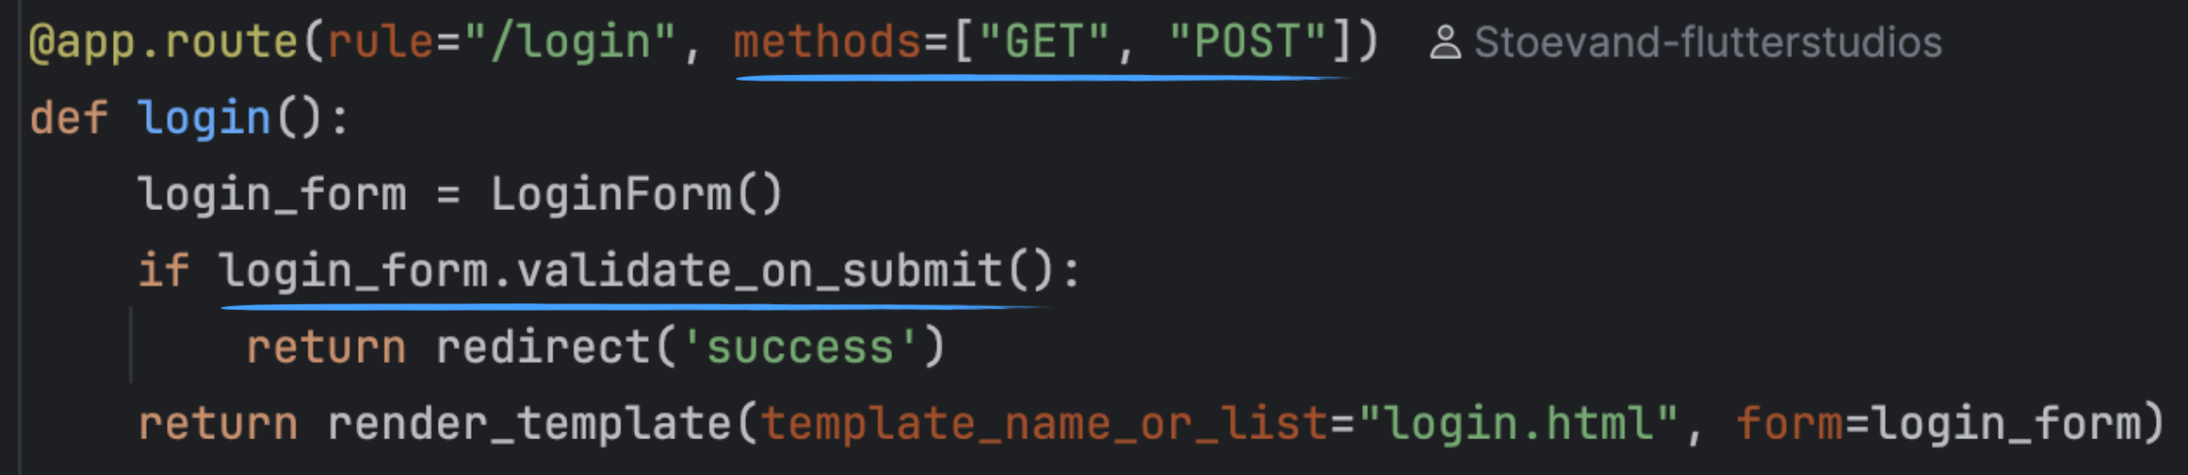
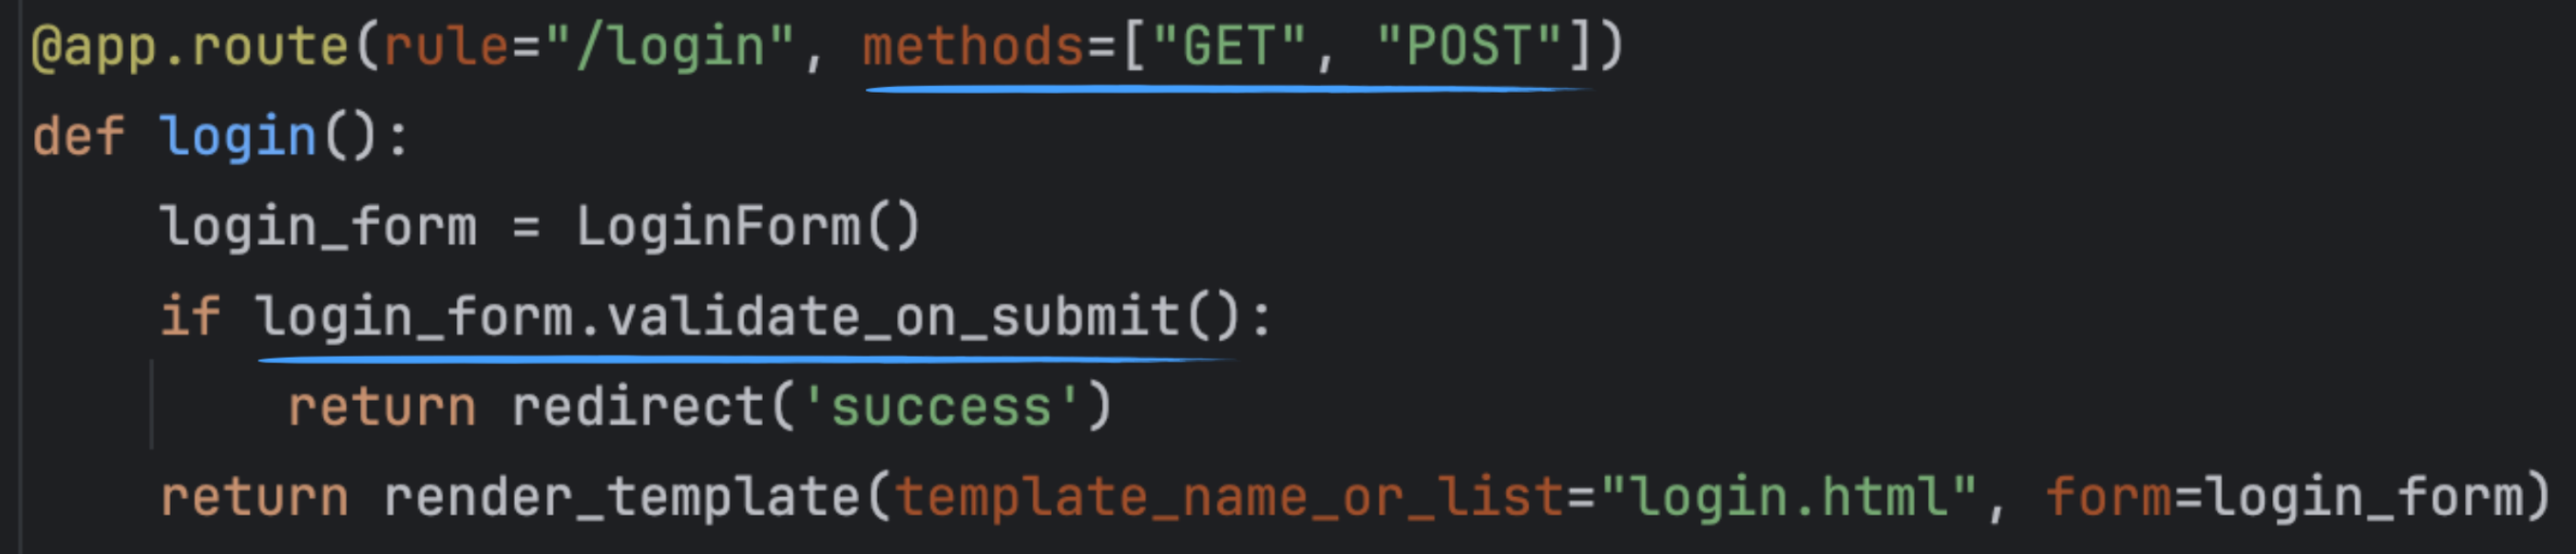
ref

diff --git a/PPB/day_061/exercise/README.md b/PPB/day_061/exercise/README.md
@@ -243,4 +243,12 @@
     <p>then show them the <b>success.html</b> page.</p>
     <p>Otherwise, show them the <b>denied.html</b> page</p>
     <p>e.g.</p>
+    <div>
+        <h4>Access Denied</h4>
+        <img src="../assets/25.gif" alt="" style="width: 380px;">
+    </div>
+    <div>
+        <h4>Access Granted</h4>
+        <img src="../assets/26.gif" alt="" style="width: 380px;">
+    </div>
 </div>
